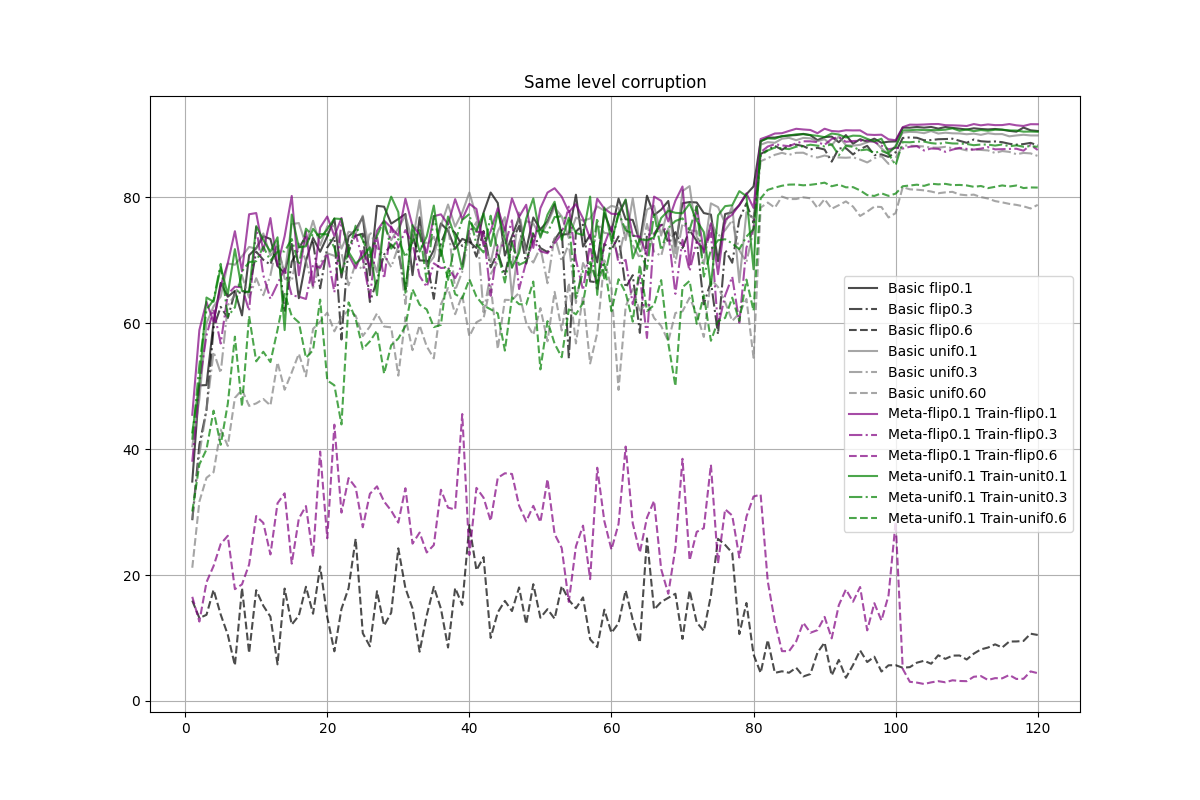
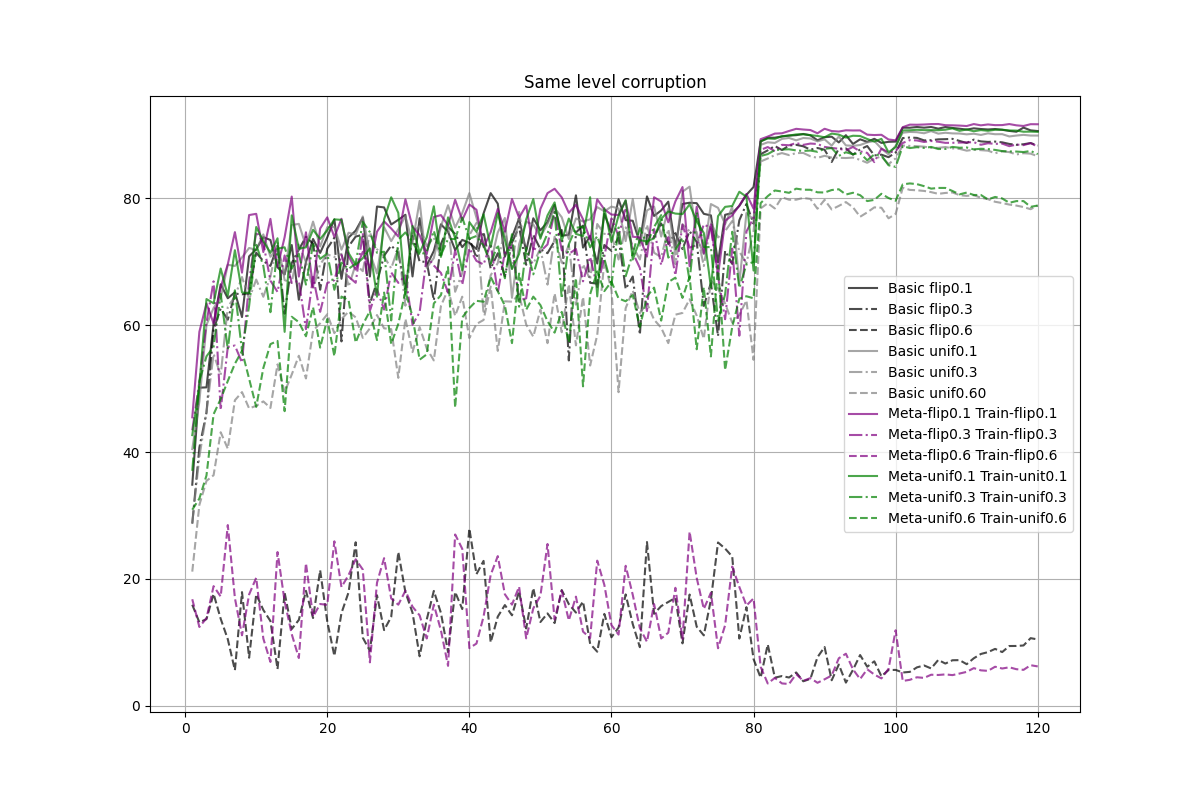
updated

diff --git a/logs/load.py b/logs/load.py
@@ -24,21 +24,21 @@ titles = [
         ],
         #4
         ["Meta-flip0.1 Train-flip0.1",  #4
-        "Meta-flip0.1 Train-flip0.3",
-        "Meta-flip0.1 Train-flip0.6"],
-        #5
-        ["Meta-unif0.1 Train-unit0.1",   #6
-        "Meta-unif0.1 Train-unit0.3",
-        "Meta-unif0.1 Train-unif0.6"],
-        #6
-        ["Meta-flip0.3 Train-flip0.3",   #5
-        "Meta-flip0.3 Train-flip0.6",
+        "Meta-flip0.3 Train-flip0.3",   #5
         "Meta-flip0.6 Train-flip0.6",
         ],
+        #5
+        ["Meta-unif0.1 Train-unit0.1",
+        "Meta-unif0.3 Train-unif0.3",
+        "Meta-unif0.6 Train-unif0.6"],
+        #6
+        ["Meta-flip0.1 Train-flip0.3",
+        "Meta-flip0.1 Train-flip0.6",
+        "Meta-flip0.3 Train-flip0.6"],
         #7
-        ["Meta-unif0.3 Train-unif0.3",   #7
+        ["Meta-unif0.1 Train-unit0.3",
+        "Meta-unif0.1 Train-unif0.6",
         "Meta-unif0.3 Train-unif0.6",
-        "Meta-unif0.6 Train-unif0.6",
         ]
     ]
 filename = [
@@ -63,22 +63,21 @@ filename = [
         ],
         #4
         ["flip0.1flip0.10.txt",
-        "flip0.1flip0.30.txt",
-        "flip0.1flip0.60.txt"],
-        #5
-        ['unif0.1unif0.10.txt',
-        'unif0.1unif0.30.txt',
-        'unif0.1unif0.60.txt'],
-        #6
-        ["flip0.3flip0.30.txt",
-        "flip0.3flip0.60.txt",
+        "flip0.3flip0.30.txt",
         "flip0.6flip0.60.txt"
         ],
+        #5
+        ['unif0.1unif0.10.txt',
+        'unif0.3unif0.30.txt',
+        'unif0.6unif0.60.txt'],
+        #6
+        ["flip0.1flip0.30.txt",
+        "flip0.1flip0.60.txt",
+        "flip0.3flip0.60.txt"],
         #7
-        ['unif0.3unif0.30.txt',
-            'unif0.3unif0.60.txt',
-            'unif0.6unif0.60.txt',
-        ]
+        ['unif0.1unif0.30.txt',
+        'unif0.1unif0.60.txt',
+        'unif0.3unif0.60.txt']
     ]
 
 results = []
